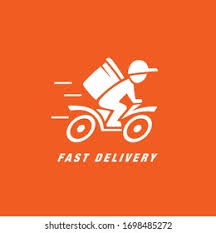
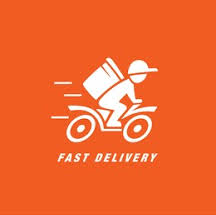
chore: update text and images to match Pakistani cuisine and fix card alignment

Changed region(s): [[0.2222, 0.2233, 0.75, 0.7814], [0.0, 0.9209, 1.0, 1.0]]

diff --git a/index.html b/index.html
@@ -54,9 +54,7 @@
             <div class="hero_content">
                 <div class="tag">50% Off on All Products</div>
                 <h1>Enjoy Your Delicious Food</h1>
-                <p>Experience culinary perfection crafted by master chefs. We combine pristine, locally sourced
-                    farm-fresh ingredients with generations of gourmet tradition to deliver unforgettable flavor
-                    journey directly to your table.</p>
+                <p>Bring the authentic flavors of traditional Pakistani cuisine straight to your dining table. From slow-cooked, aromatic Biryanis to sizzling, spice-infused clay-pot Karahis, we deliver piping hot, chef-crafted street food and elite family feasts across the city.</p>
                 <button class="explore_btn">Explore Now</button>
             </div>
         </div>
@@ -71,11 +69,10 @@
                 </div>
             </div>
             <div class="feature">
-                <img src="images/fresh.png" alt="Organic Fresh Salad Icon">
+                <img src="images/fresh.png" alt="Authentic Spice Icon">
                 <div class="feature_content">
-                    <h3>Fresh Healthy Food</h3>
-                    100% certified organic, seasonal greens and crisp non-GMO ingredients curated to fuel your body with
-                    vibrant energy.
+                    <h3>Authentic Desi Taste</h3>
+                    Crafted using traditional recipe secrets, premium basmati rice, and pure, hand-ground spices to deliver that rich, uncompromised home-cooked flavor.
                 </div>
             </div>
             <div class="feature">
@@ -94,25 +91,25 @@
             <h2>Explore Our Menu</h2>
             <div class="grid">
                 <div class="item1">
-                    <img class="grid-image" src="images/item1.jpg" alt="Rich Golden Curries and Gravies">
+                    <img class="grid-image" src="images/item1.png" alt="Rich and Flavorful Chicken Karahi">
                 </div>
                 <div class="item2">
-                    <img class="grid-image" src="images/item2.jpg" alt="Sweet and Hot Gulab Jamun">
+                    <img class="grid-image" src="images/item2.png" alt="Sweet and Hot Gulab Jamun">
                 </div>
                 <div class="item3">
-                    <img class="grid-image" src="images/item3.jpg" alt="Sizzling Hot Charcoal Skewered Kebabs">
+                    <img class="grid-image" src="images/item3.png" alt="Sizzling Hot Charcoal Skewered Kebabs">
                 </div>
                 <div class="item4">
-                    <img class="grid-image" src="images/item4.jpg" alt="Hot and Spicy Nihaari">
+                    <img class="grid-image" src="images/item4.png" alt="Hot and Spicy Nihaari">
                 </div>
                 <div class="item5">
-                    <img class="grid-image" src="images/item5.jpg" alt="Fresh Kheer">
+                    <img class="grid-image" src="images/item5.png" alt="Fresh and Creamy Kheer">
                 </div>
                 <div class="item6">
-                    <img class="grid-image" src="images/item6.jpg" alt="Premium Seared Entrées and Steaks">
+                    <img class="grid-image" src="images/item6.png" alt="Premium Chicken Reshmi Kabab">
                 </div>
                 <div class="item7">
-                    <img class="grid-image" src="images/item7.jpg" alt="Delecious Saviyan">
+                    <img class="grid-image" src="images/item7.png" alt="Delecious Fresh Fruit Salad">
                 </div>
             </div>
         </div>